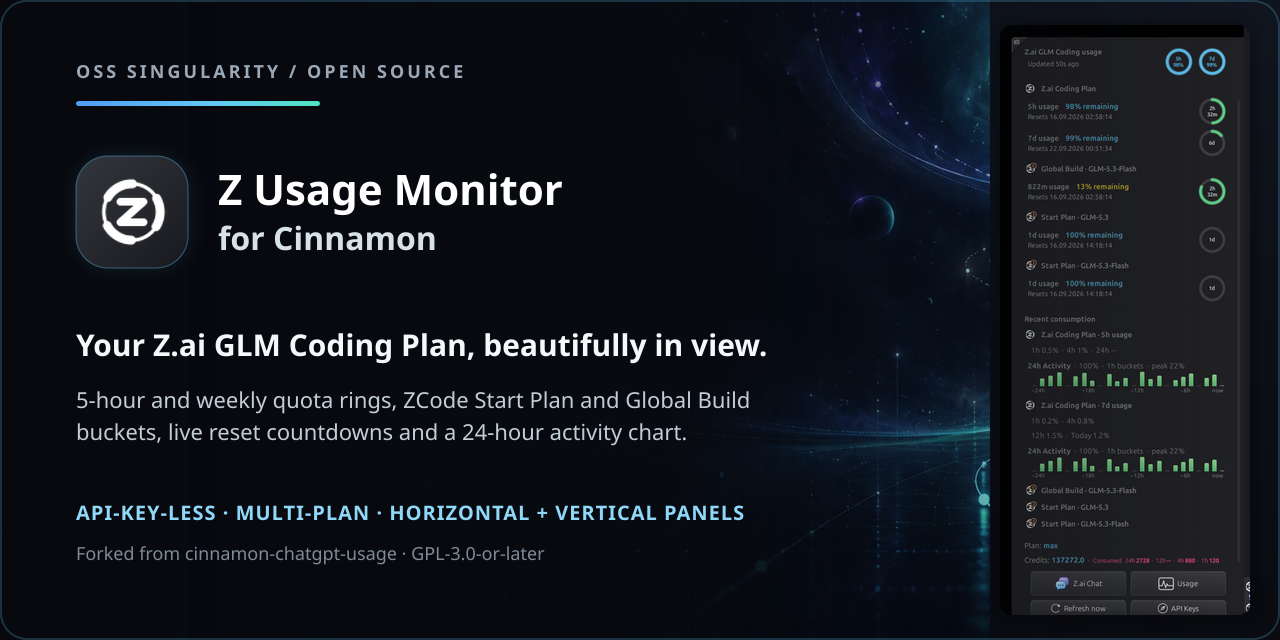
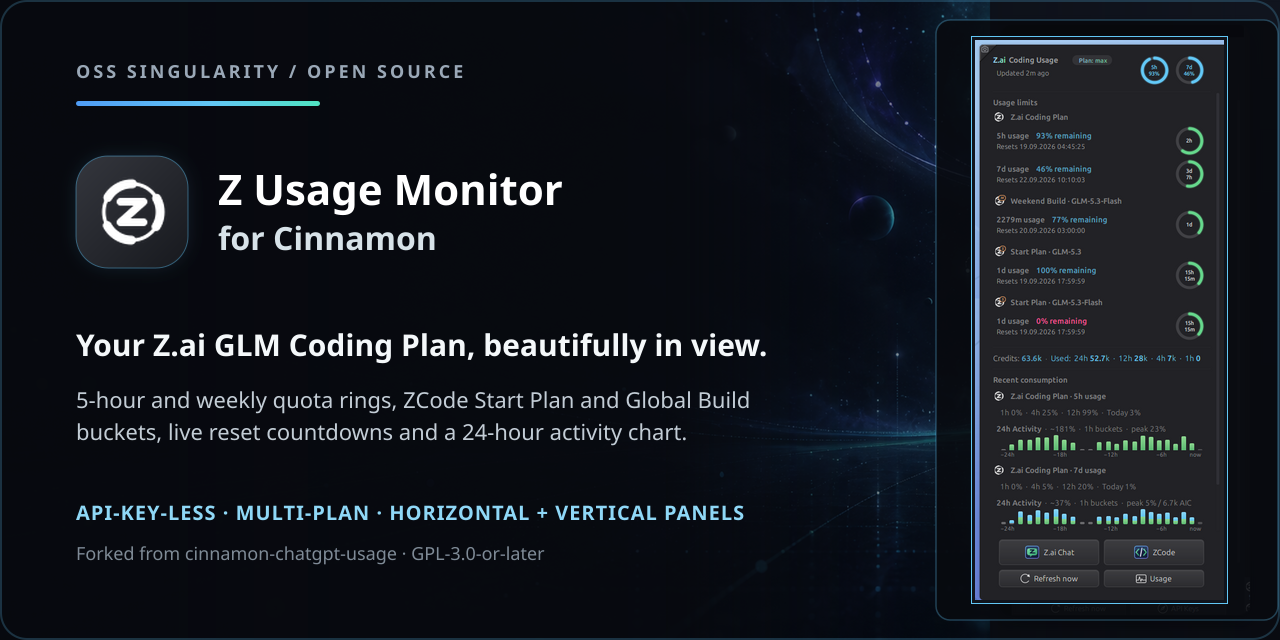
Embed the popup capture in the social preview and calm the title gap
The social preview composes the live-fixture popup capture on a dark
backdrop card over the atmosphere background - the retired AIC panel
sliver that the old background carried disappears behind it. The title
brand gap gains a hair space, and the capture pipeline retries its
geometry evals so a transient eval failure right after the leaf-open
relayout cannot kill the driver mid-settle.

Changed region(s): [[0.7188, 0.0312, 1.0, 0.9688]]

diff --git a/applet.js b/applet.js
@@ -1463,7 +1463,7 @@ class ZUsageApplet extends Applet.Applet {
             this._brightenColor(String(this.normalColor || "#62c7f5"), 0.35)
         );
         if (title.clutter_text && brandStart[0]) {
-            const [fromValid, fromColor] = brandStart;
+            const [, fromColor] = brandStart;
             const [toValid, toColor] = Clutter.Color.from_string("#7df2b6");
             const menuNode = this.menu.actor.get_theme_node();
             const fg = menuNode.get_foreground_color();

diff --git a/.github/social-preview-src/render.py b/.github/social-preview-src/render.py
@@ -45,8 +45,9 @@ def main() -> int:
 
     background = source_dir / "background.png"
     icon = repo_dir / "icons/usage-white.png"
-    if not background.is_file() or not icon.is_file():
-        raise SystemExit("Social-preview background or usage icon is missing.")
+    popup = repo_dir / "docs/screenshots/usage-menu.png"
+    if not background.is_file() or not icon.is_file() or not popup.is_file():
+        raise SystemExit("Social-preview background, usage icon or popup capture is missing.")
 
     replacements = {
         "{{TAGLINE}}": html.escape(str(variant["tagline"])),
@@ -79,11 +80,52 @@ def main() -> int:
             command + [str(icon), "-filter", "Lanczos", "-resize", "82x82", str(app_icon)],
             check=True,
         )
+        # The applet popup rides the right side: the panel slice that the
+        # capture crop leaves at its east edge is removed, the shot gets a
+        # dark bezel with the accent color and lands vertically centered.
+        popup_scaled = work_dir / "popup.png"
+        subprocess.run(
+            command
+            + [
+                str(popup),
+                "-gravity",
+                "East",
+                "-chop",
+                "40x0+0+0",
+                "-resize",
+                "x560",
+                "-bordercolor",
+                "#10141c",
+                "-border",
+                "3",
+                "-bordercolor",
+                "#62c7f5",
+                "-border",
+                "1",
+                str(popup_scaled),
+            ],
+            check=True,
+        )
+        popup_size = subprocess.run(
+            command + [str(popup_scaled), "-format", "%wx%h", "info:"],
+            check=True,
+            capture_output=True,
+            text=True,
+        ).stdout.strip()
+        popup_width = int(popup_size.split("x")[0])
+        popup_height = int(popup_size.split("x")[1])
+        popup_x = WIDTH - popup_width - 52
+        popup_y = max(8, (HEIGHT - popup_height) // 2)
+
         subprocess.run(
             command
             + [
                 str(canvas),
                 str(overlay_png),
+                "-composite",
+                str(popup_scaled),
+                "-geometry",
+                f"+{popup_x}+{popup_y}",
                 "-composite",
                 str(app_icon),
                 "-geometry",
